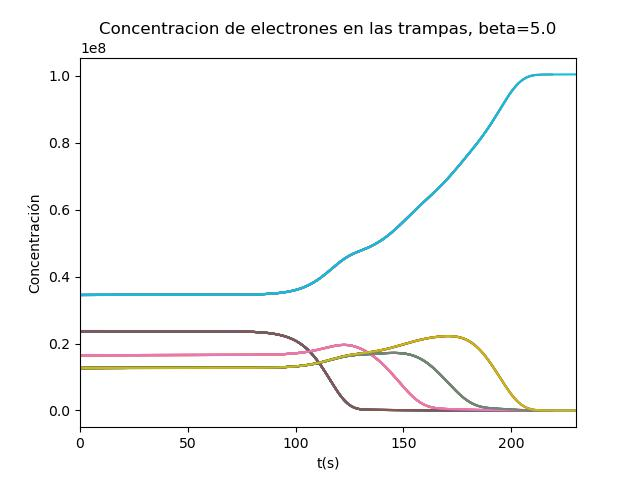
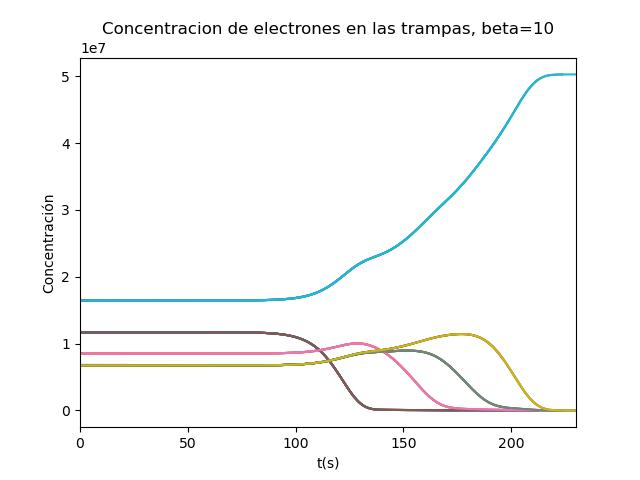
añadidos cambios a app.py

diff --git a/mejorar.md b/mejorar.md
@@ -1,3 +1,5 @@
+Puedes decirme nombre de funciones que no utilicemos en este stript?
+
 import pandas as pd
 import numpy as np
 import scipy.integrate as integ
@@ -106,21 +108,16 @@ def NFCT(E, i, T, t):  # Aquí simulamos la creación de trampas durante la irra
 NN = N
 
 
-def Ne(E, i, T):  # Aquí definimos la distribución de Fermi-Dirac
-    # para utilizarla utilizando el numero de trampas disponibles tras la irradiación
+def Ne(E, i, T):  # Aquí definimos la distribución de Fermi-Dirac para utilizarla utilizando el numero de trampas disponibles tras la irradiación
     return NN[i] / (1 + np.exp((E - 2.7) / (kb * T)))
-
 
 Tamb = 273.15
 
-
-def TLIN(t, u):  # Con esta función simulamos la irradiación añadiendo la creación de trampas,
-    # utilizando la función de arrenius para la probabilidad
+def TLIN(t, u):  # Con esta función simulamos la irradiación añadiendo la creación de trampas, utilizando la función de arrenius para la probabilidad
     dx = np.zeros(len(nn))
     Constante_A = 0.0
     for i in range(1, len(dx) - 3):
-        dx[i] = -u[i] * (s[i - 1] * np.exp(-E[i - 1] / (kb * Tamb))
-                         ) + A[i - 1] * (Ng(t, i - 1) - u[i]) * u[0]
+        dx[i] = -u[i] * (s[i - 1] * np.exp(-E[i - 1] / (kb * Tamb))) + A[i - 1] * (Ng(t, i - 1) - u[i]) * u[0]
         Constante_A += dx[i]
     dx[0] = f - Constante_A - u[0] * (u[-3] * Amn_R[0] + u[-2] * Amn_NR[0])
     dx[-3] = A_R[0] * (M_R[0] - u[-3]) * u[-1] - u[0] * (u[-3] * Amn_R[0])
@@ -134,15 +131,16 @@ def TLINE(t, u):  # Aquí simulamos la irradiación añadiendo la creación de t
     dx = np.zeros(len(nn))
     Constante_A = 0.0
     for i in range(1, len(dx) - 3):
-        dx[i] = -u[i] * (s[i - 1] * np.exp(-E[i - 1] / (kb * Tamb))) + \
-            A[i - 1] * (NFCT(E[i - 1], i - 1, Tamb, t) - u[i]) * u[0]
+        dx[i] = -u[i] * (s[i - 1] * np.exp(-E[i - 1] / (kb * Tamb))) + A[i - 1] * (NFCT(E[i - 1], i - 1, Tamb, t) - u[i]) * u[0]
         Constante_A += dx[i]
     dx[0] = f - Constante_A - u[0] * (u[-3] * Amn_R[0] + u[-2] * Amn_NR[0])
     dx[-3] = A_R[0] * (M_R[0] - u[-3]) * u[-1] - u[0] * (u[-3] * Amn_R[0])
     dx[-2] = A_NR[0] * (M_NR[0] - u[-2]) * u[-1] - u[0] * (u[-2] * Amn_NR[0])
-    dx[-1] = f - u[-1] * (+A_R[0] * (M_R[0] - u[-3]) +
-                          A_NR[0] * (M_NR[0] - u[-2]))
+    dx[-1] = f - u[-1] * (+A_R[0] * (M_R[0] - u[-3]) + A_NR[0] * (M_NR[0] - u[-2]))
     return np.array(dx, dtype=object)
+
+
+
 
 
 def TLRNE(t, u):  # Simulamos la relajación tras la irradiación (reduciendo la fuente de radiación en un factor 1000) partiendo de las concentraciones y
@@ -150,15 +148,12 @@ def TLRNE(t, u):  # Simulamos la relajación tras la irradiación (reduciendo la
     dx = np.zeros(len(nn))
     Constante_A = 0.0
     for i in range(1, len(dx) - 3):
-        dx[i] = -u[i] * (s[i - 1] * np.exp(-E[i - 1] / (kb * Tamb))
-                         ) + A[i - 1] * (NN[i - 1] - u[i]) * u[0]
+        dx[i] = -u[i] * (s[i - 1] * np.exp(-E[i - 1] / (kb * Tamb))) + A[i - 1] * (NN[i - 1] - u[i]) * u[0]
         Constante_A += dx[i]
-    dx[0] = f / 1000 - Constante_A - u[0] * \
-        (u[-3] * Amn_R[0] + u[-2] * Amn_NR[0])
+    dx[0] = f / 1000 - Constante_A - u[0] * (u[-3] * Amn_R[0] + u[-2] * Amn_NR[0])
     dx[-3] = A_R[0] * (M_R[0] - u[-3]) * u[-1] - u[0] * (u[-3] * Amn_R[0])
     dx[-2] = A_NR[0] * (M_NR[0] - u[-2]) * u[-1] - u[0] * (u[-2] * Amn_NR[0])
-    dx[-1] = f / 1000 - u[-1] * \
-        (+A_R[0] * (M_R[0] - u[-3]) + A_NR[0] * (M_NR[0] - u[-2]))
+    dx[-1] = f / 1000 - u[-1] * (+A_R[0] * (M_R[0] - u[-3]) + A_NR[0] * (M_NR[0] - u[-2]))
     return np.array(dx, dtype=object)
 
 
@@ -196,20 +191,13 @@ def TLE(t, u):  # Simulación del calentamiento
     Constante_A = 0.0
     for i in range(1, len(dx) - 3):
         if u[i] > 10:
-            dx[i] = -u[i] * (s[i - 1] * np.exp(-E[i - 1] / (kb * Tamb))
-                             ) + A[i - 1] * (NN[i - 1] - u[i]) * u[0]
+            dx[i] = -u[i] * (s[i - 1] * np.exp(-E[i - 1] / (kb * Tamb))) + A[i - 1] * (NN[i - 1] - u[i]) * u[0]
             Constante_A += dx[i]
-    dx[0] = f / 1000 - Constante_A - u[0] * \
-        (u[-3] * Amn_R[0] + u[-2] * Amn_NR[0])
+    dx[0] = f / 1000 - Constante_A - u[0] * (u[-3] * Amn_R[0] + u[-2] * Amn_NR[0])
     dx[-3] = A_R[0] * (M_R[0] - u[-3]) * u[-1] - u[0] * (u[-3] * Amn_R[0])
     dx[-2] = A_NR[0] * (M_NR[0] - u[-2]) * u[-1] - u[0] * (u[-2] * Amn_NR[0])
-    dx[-1] = f / 1000 - u[-1] * \
-        (+A_R[0] * (M_R[0] - u[-3]) + A_NR[0] * (M_NR[0] - u[-2]))
+    dx[-1] = f / 1000 - u[-1] * (+A_R[0] * (M_R[0] - u[-3]) + A_NR[0] * (M_NR[0] - u[-2]))
     return np.array(dx, dtype=object)
-
-
-def CT(t):
-    return 297.15 + float(t) * 10
 
 
 def TLECT(t, u):  # Simulación del calentamiento utilizando una curva de temperaturas
@@ -262,19 +250,23 @@ st.set_page_config(layout='wide')
 st.title('Sumulación irradiación y relajación')
 st.write('Esta es una prueba para hacer una herramienta web.')
 
+tmax = -9999
 form = st.form('Entrada')
 a = form.write('Introduzca el tiempo de irradiación')
-a = form.number_input('Tiempo de irradiación:', value=5)
-b = form.number_input('Tiempo de relajación:', value=5)
-c = form.number_input('Beta:', value=10)
+a = form.number_input('Tiempo de irradiación:')
+b = form.number_input('Tiempo de relajación:')
+c = form.number_input('Beta:')
 form.form_submit_button('Enviar')
-tmax = float(a)
-tmaxr = float(b)
-beta = float(c)
-
-st.write('Tiempo de irradiación='+str(tmax))
-st.write('Tiempo de relajación= '+str(tmaxr))
-st.write('Beta= '+str(beta))
+tmax = a
+tmaxr = b
+beta = c
+tmax = float(tmax)
+if tmax == -9999:
+    st.write('Introduzca el tiepo de irradiación.')
+else:
+    st.write('Tiempo de irradiación='+str(tmax))
+    st.write('Tiempo de relajación= '+str(tmaxr))
+    st.write('Beta= '+str(beta))
 
 # Preguntar al usuario si desea usar un archivo existente o cargar uno nuevo
 option = st.selectbox("Seleccione una opción:",
@@ -302,16 +294,14 @@ if option == "Cargar archivo Excel":
         nn = np.append(nn, n_h[0])
         NN = np.zeros(len(N))
         st.write(df2)
-
-
 if st.button('Empezar simulación'):
 
     warning = st.empty()
     warning.empty()
-    if tmax == 0:
+    if tmax == -9999:
         with warning.container():
             st.write('introduzca tiempo de irradiación')
-    pasos = 100
+    pasos = 50
     # tmax=20                 #tiempo de irradiación
     solirad = integ.RK45(fun=TLINE, t0=0, y0=nn, t_bound=tmax, max_step=np.inf,
                          rtol=0.01, atol=0.01, vectorized=False, first_step=None)
@@ -325,7 +315,7 @@ if st.button('Empezar simulación'):
     imagen = st.empty()
     imagen.empty()
 
-    for i in range(100):
+    for i in range(pasos):
 
         for i in range(1000):
             # get solution step state
@@ -334,6 +324,7 @@ if st.button('Empezar simulación'):
             xi.append(solirad.y)
             # break loop after modeling is finished
             if solirad.status == 'finished':
+
                 break
         xtemp, ttemp = g200(np.array(xi), ti)
         # Representamos la concentración en las trampas en la irradiación
@@ -344,6 +335,7 @@ if st.button('Empezar simulación'):
             plt.title(
                 'Concentracion de electrones en las trampas en la irradiación')
             plt.xlabel('t(s)')
+
             plt.ylabel('Concentración')
             plt.savefig('src/irrad.jpg')
         image = 'src/irrad.jpg'
@@ -411,7 +403,6 @@ if st.button('Empezar simulación'):
     finir = time.time()
     print('resuelto en: '+str(finir-inii))
     xr = np.array(xr)
-
     plt.figure(3)
     # Representamos la concentración en las trampas en la irradiación
     for i in range(1, len(nn)-3):
@@ -460,7 +451,7 @@ if st.button('iniciar calentamiento'):
     imac = st.empty()
     imac.empty()
     inicio = time.time()
-    for j in range(100):
+    for j in range(50):
         for i in range(3000):
             # get solution step state
             solcal.step()
@@ -507,3 +498,7 @@ if st.button('iniciar calentamiento'):
         else:
             fin = time.time()
             print(j/49, inicio-fin)
+
+
+qué harías para optimizar este código?
+
